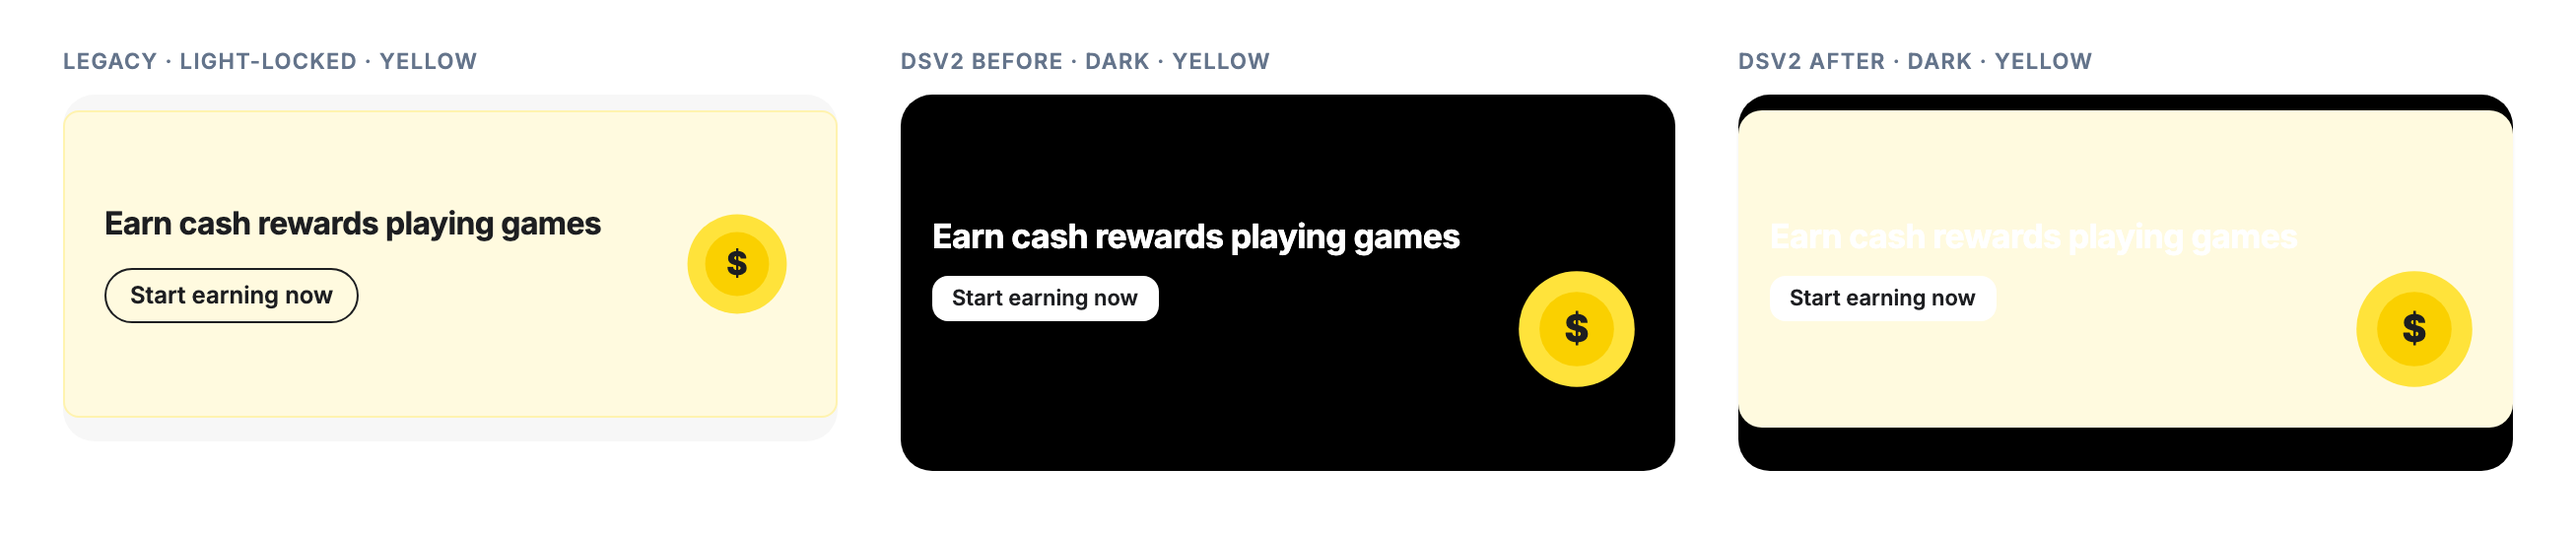
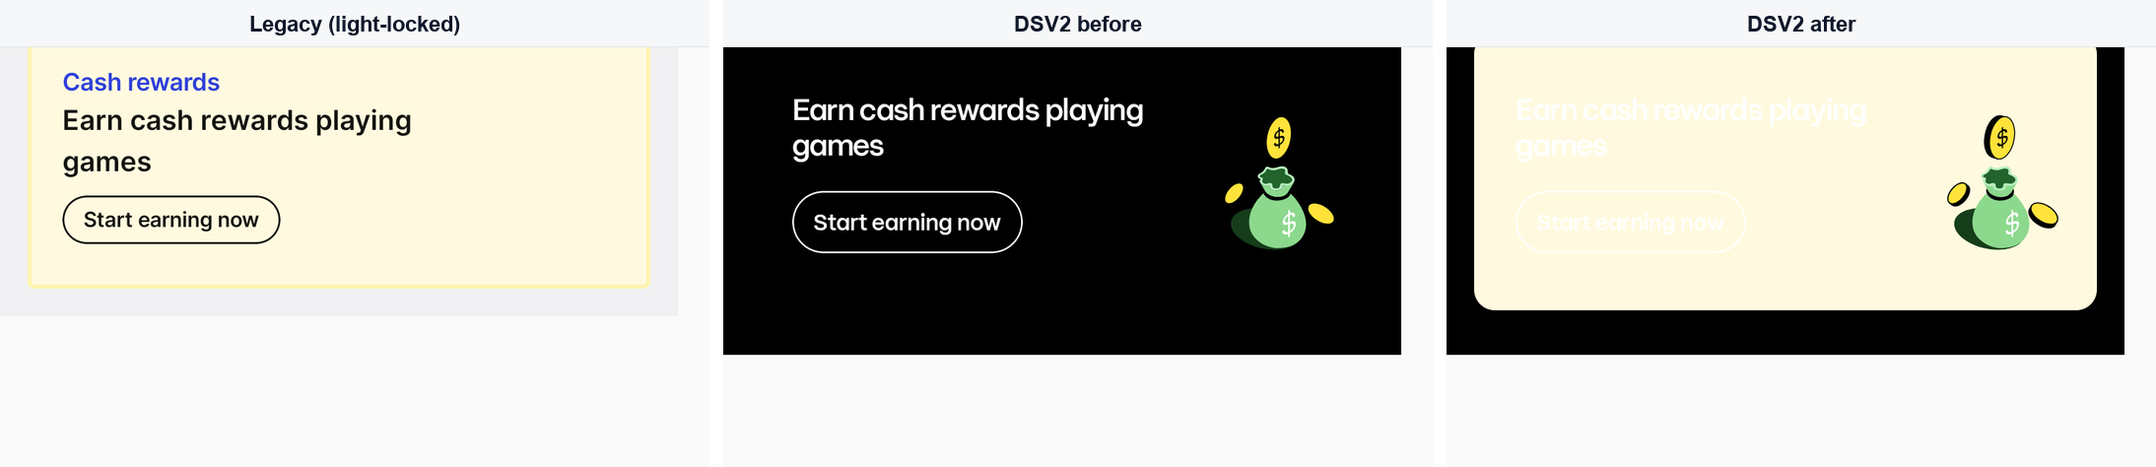
Replace HTML mockups with Android emulator captures of production carousel composables.

diff --git a/index.html b/index.html
@@ -303,7 +303,7 @@
       <header class="animate">
         <div class="kicker">CXP-2032 · PR 27095 · Android</div>
         <h1>Promo carousel color parity</h1>
-        <p class="lede">DSV2 home promo cards now resolve the backend <code>color-scheme</code> the same way legacy does. These are faithful mockups from <code>design_system</code> 2.8.1 <code>Global.color.*</code> tokens — not device captures. Legacy visuals are unchanged by this PR. The comparison table starts expanded.</p>
+        <p class="lede">DSV2 home promo cards now resolve the backend <code>color-scheme</code> the same way legacy does. These are Android emulator captures of the production Compose carousels (<code>PromotionCarouselContent</code> / <code>PromotionCarouselV2Content</code>). Legacy visuals are unchanged by this PR. The comparison table starts expanded.</p>
       </header>
 
       <div class="stat-row animate delay-1">

diff --git a/README.md b/README.md
@@ -1,6 +1,6 @@
 # CXP-2032 promo carousel before/after screenshots
 
-Token-faithful mockups for https://github.com/activehours/android/pull/27095
+Android emulator captures of production `PromotionCarouselContent` / `PromotionCarouselV2Content` for https://github.com/activehours/android/pull/27095
 
 Each row image is **Legacy | DSV2 before | DSV2 after**.
 
